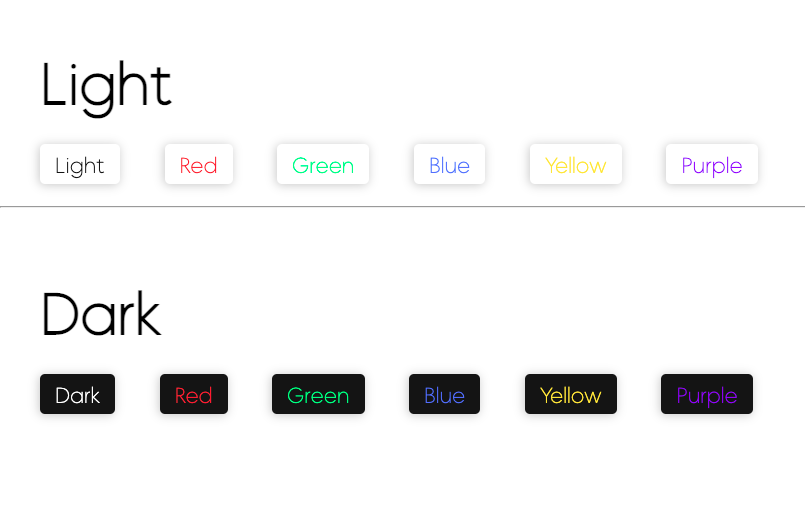
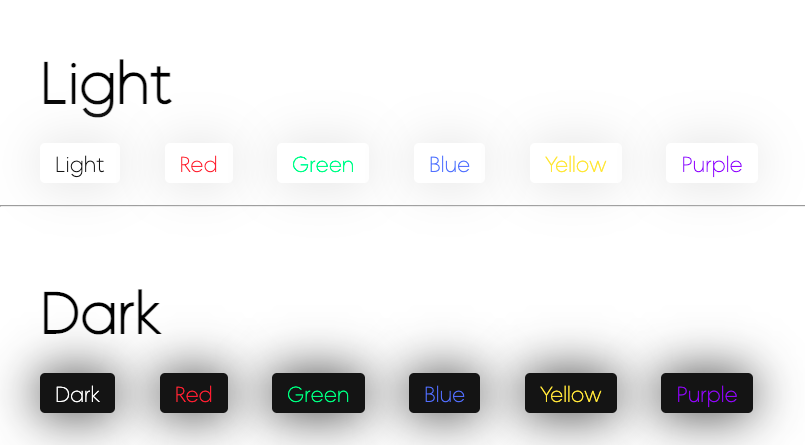
updates for buttons box-shadows

diff --git a/src/css/style.css b/src/css/style.css
@@ -442,14 +442,16 @@ button {
     font-size: 1.5vw;
     color: var(--dark);
     outline: none;
-    box-shadow: -1px 1px 5px #e7e7e7;
-    box-shadow: -1px 1px 10px #c7c7c7;
+    box-shadow: -1px 1px 50px rgb(220, 220, 220);
     cursor: pointer;
     transition: all .35s;
 }
 
+button[class*="button-dark"] { box-shadow: -1px 1px 50px rgb(30, 30, 30); }
+
 button:active { transform: scale(0.98); }
-button:hover { box-shadow: -1px 1px 5px #e7e7e7; }
+button:hover { box-shadow: -1px 1px 10px rgb(220, 220, 220); }
+button[class*="button-dark"]:hover { box-shadow: -1px 1px 10px rgb(30, 30, 30); }
 
 /* Lights */
 button.button-light { background-color: var(--white); color: var(--dark); }

diff --git a/README.md b/README.md
@@ -2,6 +2,9 @@
 A css library for easily stylize page
 
 ## Demo
+### Buttons
+![](/asset/img/buttons.png)
+---------------------------
 | *Illustration* | *Code* |
 | :---: | :---: |
 | ![](/asset/img/dark-button.png) | ![](/asset/img/dark-button-code.png) ]
